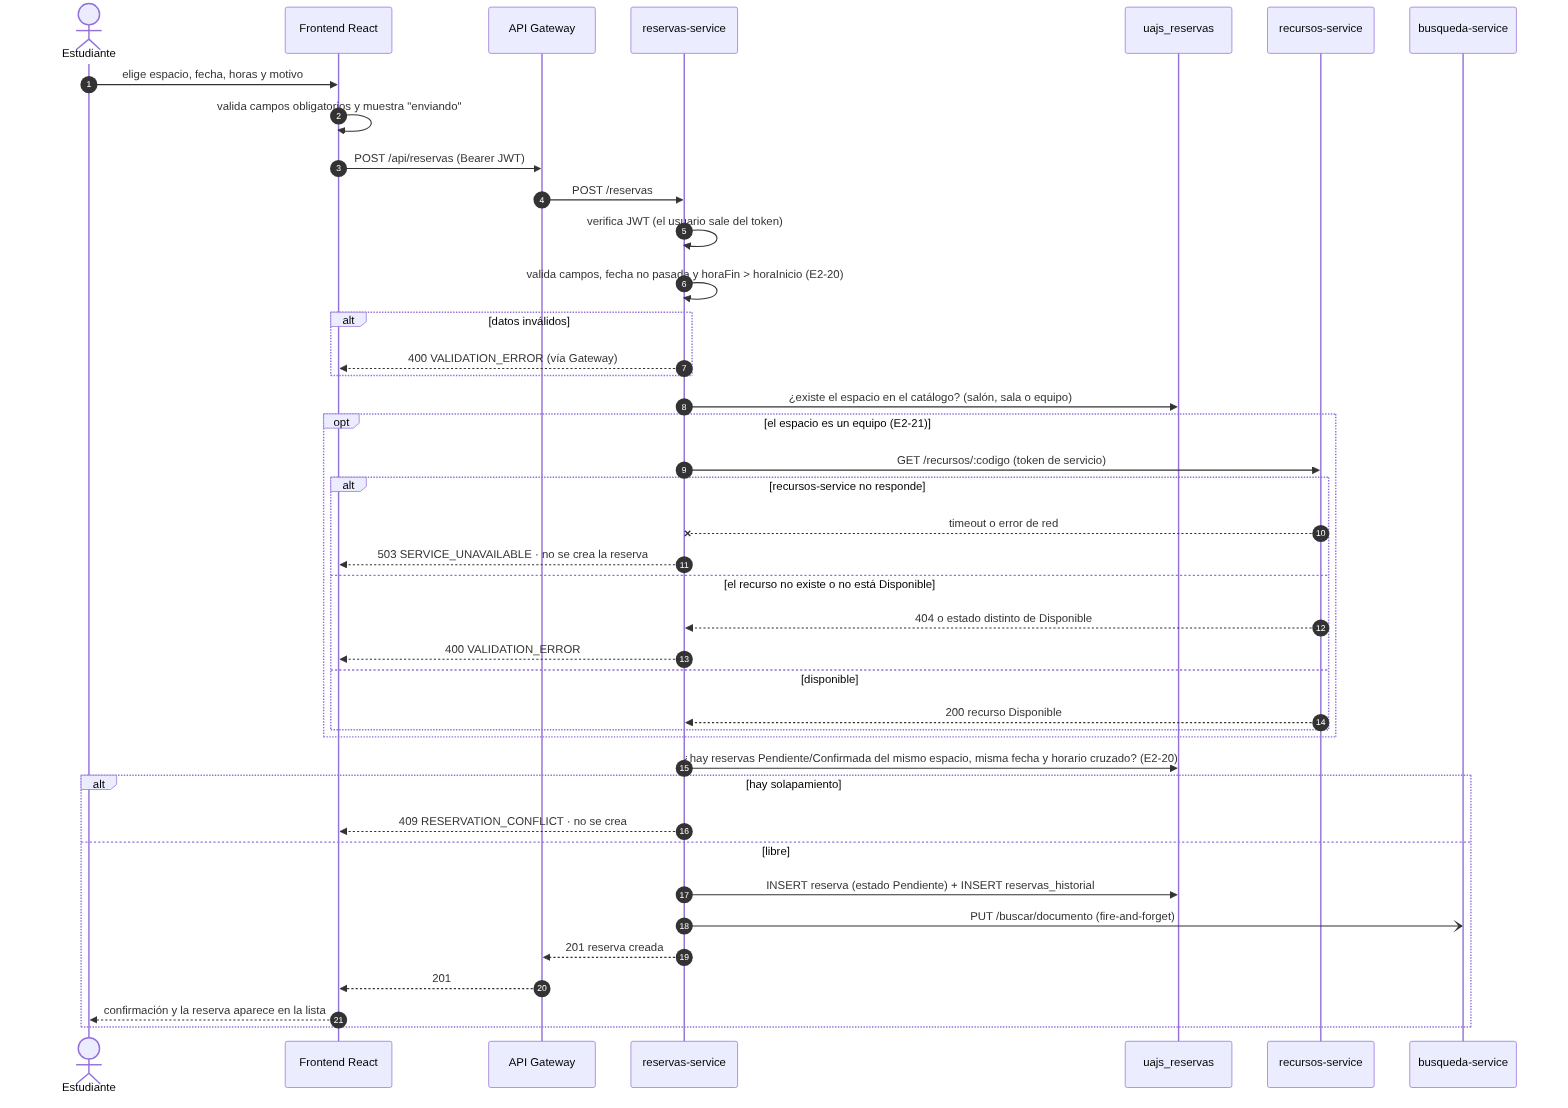
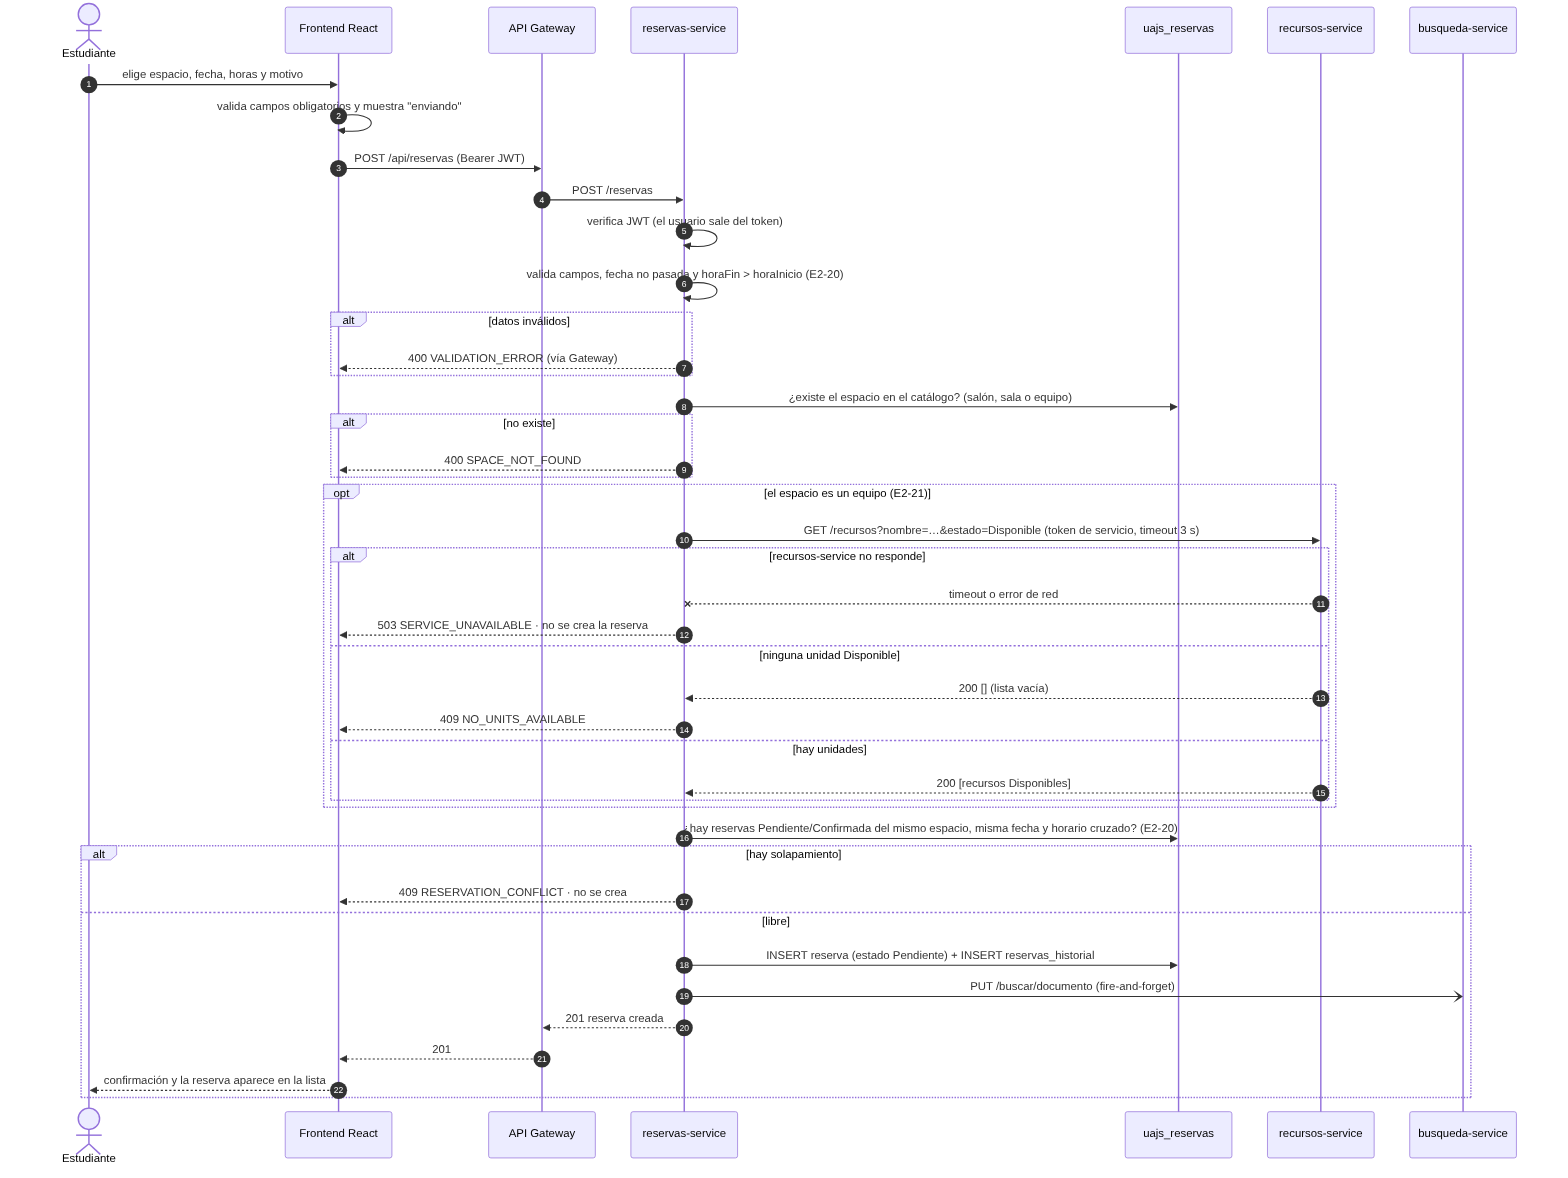
docs(arquitectura): alinea los diagramas con la implementacion del Entregable 2 [17tjyy3mx8g]
Secuencia de reserva con la consulta real (GET /recursos?nombre=&estado=
Disponible, 409 NO_UNITS_AVAILABLE, 503 si no responde), endpoint interno
de notificaciones, tokens de servicio marcados y riesgo del buscador
resuelto por E2-33. Imagenes regeneradas.

diff --git a/arquitectura/README.md b/arquitectura/README.md
@@ -16,8 +16,9 @@ Contenido:
 6. [Resumen de comunicaciones entre servicios](#6-resumen-de-comunicaciones-entre-servicios)
 7. [Riesgos conocidos](#7-riesgos-conocidos)
 
-> **Convención:** lo marcado como *E2-xx* es comportamiento que se implementa
-> en esa tarea del Entregable 2 (ClickUp). El resto ya existe en `develop`.
+> **Convención:** lo marcado como *E2-xx* es comportamiento agregado en esa
+> tarea del Entregable 2 (ClickUp); está implementado y probado en la rama
+> `feature/arnovis-e2-backend` (ver `pruebas/MATRIZ-PRUEBAS.md`).
 
 ---
 
@@ -190,16 +191,19 @@ sequenceDiagram
     RE-->>FE: 400 VALIDATION_ERROR (vía Gateway)
   end
   RE->>DRE: ¿existe el espacio en el catálogo? (salón, sala o equipo)
+  alt no existe
+    RE-->>FE: 400 SPACE_NOT_FOUND
+  end
   opt el espacio es un equipo (E2-21)
-    RE->>RC: GET /recursos/:codigo (token de servicio)
+    RE->>RC: GET /recursos?nombre=…&estado=Disponible (token de servicio, timeout 3 s)
     alt recursos-service no responde
       RC--xRE: timeout o error de red
       RE-->>FE: 503 SERVICE_UNAVAILABLE · no se crea la reserva
-    else el recurso no existe o no está Disponible
-      RC-->>RE: 404 o estado distinto de Disponible
-      RE-->>FE: 400 VALIDATION_ERROR
-    else disponible
-      RC-->>RE: 200 recurso Disponible
+    else ninguna unidad Disponible
+      RC-->>RE: 200 [] (lista vacía)
+      RE-->>FE: 409 NO_UNITS_AVAILABLE
+    else hay unidades
+      RC-->>RE: 200 [recursos Disponibles]
     end
   end
   RE->>DRE: ¿hay reservas Pendiente/Confirmada del mismo espacio, misma fecha y horario cruzado? (E2-20)
@@ -272,8 +276,8 @@ sequenceDiagram
 
 **Control de fallos:** si notificaciones-service está caído, el cambio de
 estado igual se guarda (la notificación es secundaria) y el error queda en el
-log del servicio. Hoy (antes de E2-32) es el frontend quien crea la
-notificación después de una respuesta exitosa.
+log del servicio. Desde E2-32 el frontend ya no crea estas notificaciones:
+solo refresca la campana después de cada acción.
 
 ---
 
@@ -326,13 +330,14 @@ conocida, ver sección 7).
 | Frontend → Gateway | `/api/*` | Toda petición del usuario | Sí | `502 SERVICE_UNAVAILABLE`; la interfaz muestra el error |
 | Gateway → servicio | ruta sin `/api` | Toda petición | Sí | `502` con formato único de error |
 | recursos → reservas | `PATCH /reservas/equipos/sync` | Crear, editar, cambiar estado o eliminar un recurso reservable | No | Se registra en log; el stock puede quedar desfasado |
-| reservas → recursos *(E2-21)* | `GET /recursos/:codigo` | Crear una reserva de equipo | **Sí** | `503`; no se crea la reserva |
-| solicitudes, reservas, eventos → notificaciones *(E2-32)* | endpoint interno de notificaciones | Cambio de estado, confirmación, inscripción | No | Se registra en log; la operación se completa |
+| reservas → recursos *(E2-21)* | `GET /recursos?nombre=…&estado=Disponible` | Crear una reserva de equipo | **Sí** (timeout 3 s) | `503`; no se crea la reserva |
+| solicitudes, reservas, eventos → notificaciones *(E2-32)* | `POST /notificaciones/interna` (solo token de servicio) | Registro y cambio de estado de solicitudes, PQRS y reservas; inscripción a eventos | No (timeout 2 s) | Se registra en log; la operación se completa |
 | usuarios, solicitudes, reservas, recursos, eventos → búsqueda | `PUT /buscar/documento`, `DELETE /buscar/documento/:tipo/:id` | Crear, editar o eliminar algo indexable | No | Se registra en log; el índice se recupera con `backfill` |
 
 **Autenticación entre servicios:** las llamadas internas llevan un *token de
-servicio* firmado con el mismo `JWT_SECRET`, con 1 minuto de vigencia y sin
-usuario real detrás (`id: 0`).
+servicio* firmado con el mismo `JWT_SECRET`, con 1 minuto de vigencia, sin
+usuario real detrás (`id: 0`) y marcado con `servicio: true`. Los endpoints
+internos rechazan cualquier token sin esa marca.
 
 **Formato de error común (E2-01):** todos los servicios y el Gateway
 responden los errores como
@@ -344,7 +349,7 @@ responden los errores como
 
 | Riesgo | Impacto | Propuesta |
 |---|---|---|
-| Los endpoints internos de búsqueda (`PUT` y `DELETE /buscar/documento`) aceptan el token de **cualquier usuario**, y el Gateway los publica en `/api/buscar/documento`. | Un usuario autenticado podría insertar o borrar resultados del buscador. | Aceptar solo tokens de servicio (marcarlos con un campo `servicio`) o no exponer esas rutas en el Gateway. |
+| ~~Los endpoints internos de búsqueda aceptaban el token de cualquier usuario.~~ | — | **Resuelto en E2-33:** `PUT`/`DELETE /buscar/documento` y `POST /notificaciones/interna` solo aceptan tokens de servicio (`servicio: true`); un token de usuario recibe `403 SERVICE_ONLY`. |
 | El `JWT_SECRET` de los `.env.example` es un valor de relleno público. | Con él se pueden fabricar tokens válidos. | Generar uno nuevo antes de cualquier despliegue (ver `SEGURIDAD.md` de la rama de Maicol). |
 | Sincronización de stock *fire-and-forget*. | Si reservas-service está caído durante un cambio de recurso, el stock queda desfasado. | Reintentos o una cola de mensajes (RabbitMQ), propuesto para el Entregable 3. |
 | Comunicación síncrona HTTP en todas las integraciones. | Un servicio lento retrasa al que lo llama. | Timeouts explícitos en los clientes HTTP y mensajería asíncrona en el Entregable 3. |
